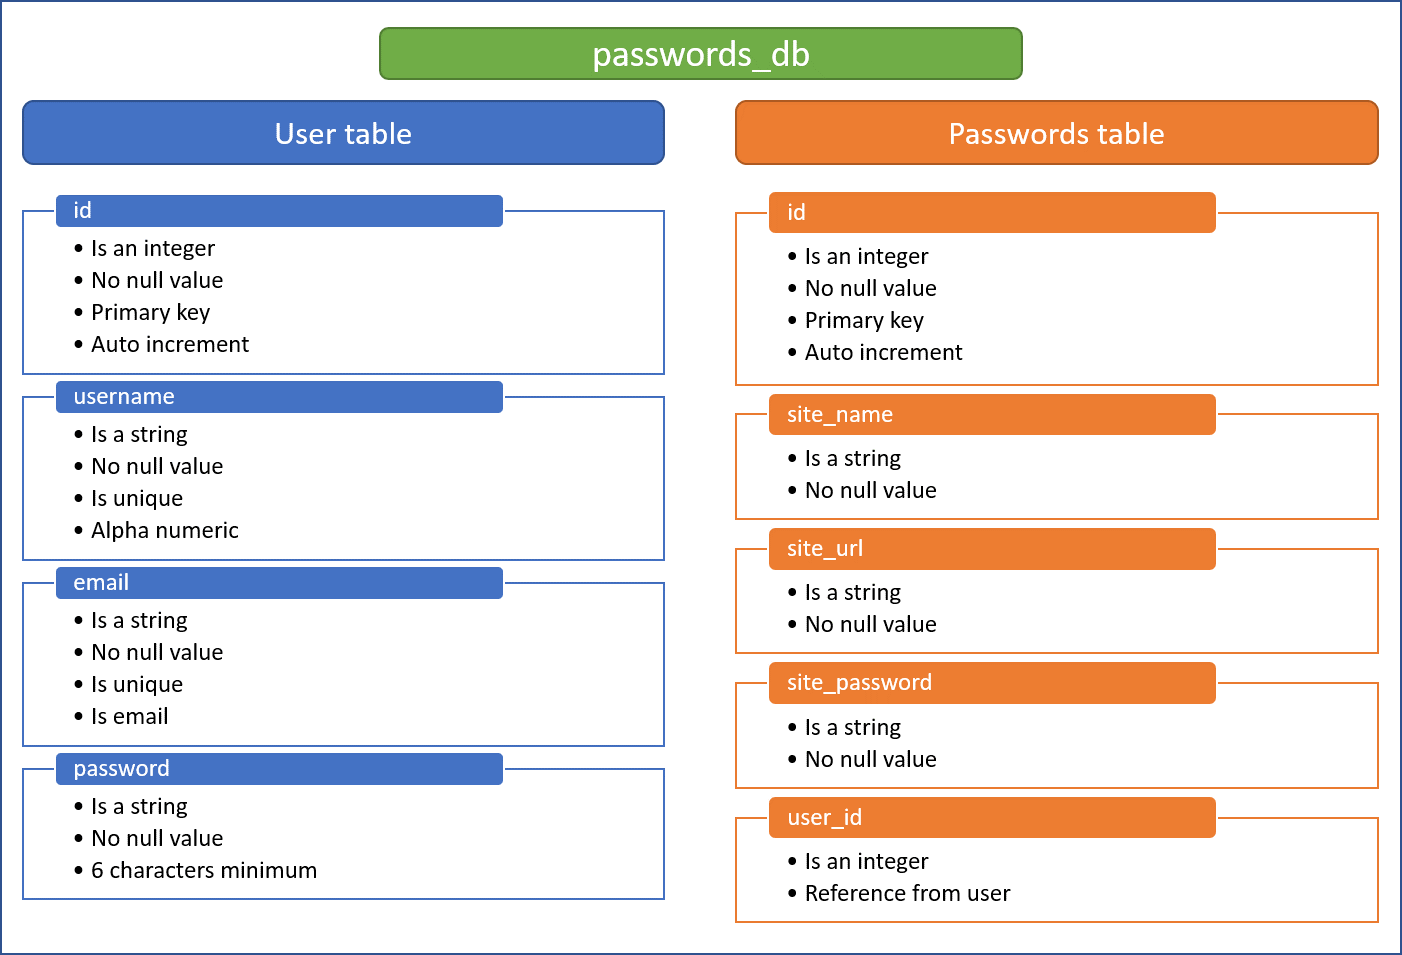
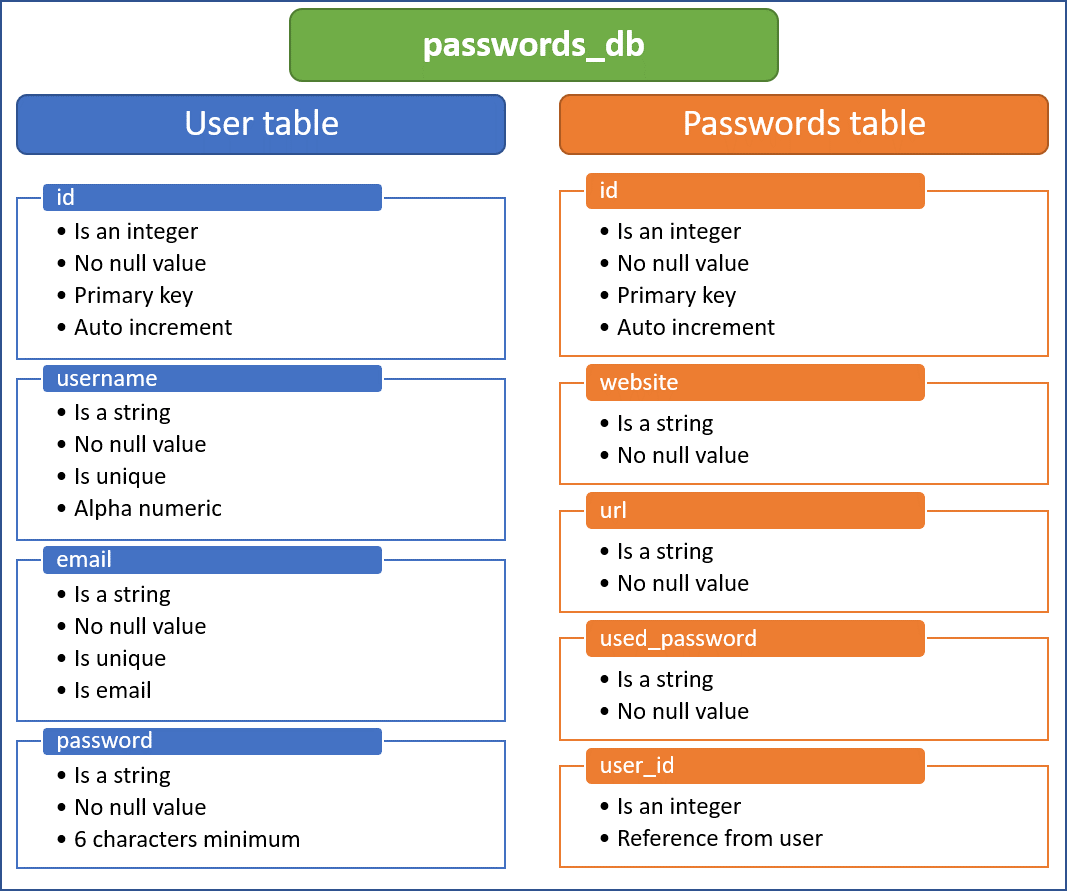
updated readme

diff --git a/README.md b/README.md
@@ -40,11 +40,11 @@ Creating a simple, secure and responsive application that allows a users to gene
 - [Models](#models)
 - [Associations](#associations)
 - [Future developments](#future-developments)
+- [Presentation link](#presentation-link)
 - [Repo link](#repo-link)
-- [Deployed link](#deployed-link)
+- [HEROKU Deployed link](#heroku-deployed-link)
 - [Wireframe](#wireframe)
 - [Screenshots - Schema](#screenshots---schema)
-- [Screenshots](#screenshots)
 
 ## User story
 ``` 
@@ -65,20 +65,16 @@ WHEN I enter registered username and password THEN I am taken to the user dashbo
 
 GIVEN I have an account in the password genie app
 WHEN log in THEN I am presented with a dashboard
-AND I have the option to create a new password item, edit an existing password and delete an existing password.
+AND I have the option to create a new item, view an exisitng item, edit an existing item and delete an existing item.
 
-GIVEN I have logged in to the password genie app
-WHEN I choose to create a new password item THEN I am presented with a form
-AND I need to enter a name, a username and auto-generate a password
-WHEN I submit the form THEN I am taken back to the dashboard and I can see my newly created password item
-
-GIVEN I have logged in to the password genie app
+GIVEN I have logged in to the password genie app,
+WHEN I choose to create a new item THEN I am presented with a form.
+AND I need to enter a website name, url of website, username and type a password or generate a password using a modal with different user requirement.
+WHEN I submit the form THEN I am taken back to the dashboard and I can see my newly created item.
 WHEN I choose to edit an existing item THEN I am presented with a pre-filled form with existing data
-AND I can edit the name, username, and generate a new password
-WHEN I submit the form THEN I am taken back to the dashboard and I can see my updated password item
-
-GIVEN I have logged in to the password genie app
-WHEN I choose to delete an existing item THEN the password item is removed from the dashboard
+AND I can edit the website name, url of website, username and type or generate a new password using a modal with different user requirement
+WHEN I submit the form THEN I am taken back to the dashboard and I can see my updated password item.
+WHEN I choose to delete an existing item THEN the password item is removed from the dashboard.
 ```
 ## Contributors
 1. [Diana Keosswanto](https://github.com/dianakoeswanto)
@@ -109,28 +105,30 @@ The strong teamwork between our group is what motivated everyone in the group th
 The application is based on one `passwords_db` database containing two tables namely `user` and `passwords`. See [schema](#screenshots---schema) here.
 
 ## Associations
-* `Passwords` belongs to `User`, and `User` has many `Password` models, as a user can have multiple password but a password can only belong to one user.
+* `Passwords` belongs to a `User`, and a `User` has many `Password` models, as a user can have multiple passwords but a password can only belong to one user.
 
 ## Future developments
-1. Add a button on the landing page "forget my password" which will send a temporary password recovery link to user's email.
-2. App will notify the user that password has not been changed for more than 6 months. Automatic notification will be sent to users registered email.
-3. Notification hadlebar will be created for notifcation like #2 and other notifications in the future.
-4. Allow user to search a password on the dashborad.
+  1. Add a button on the landing page "forgot my password" which will send a temporary password recovery link to user's email.
+  2. App will notify the user that password has not been changed for more than 6 months. 
+  3. Automatic notification will be sent to users registered email.
+  4. Notification handlebar will be created for notification like above points and so on.
+  5. Allow users to search a password on their dashboard.
+  6. Finding a more secure way to encrypting the database.
+  7. Add a reveal icon 👁 to display the password unhashed.
+
+## Presentation link
+[👋 Password-genie Presentation 👋](https://cloudstor.aarnet.edu.au/plus/s/kbKe2OGZ0js3jDp)
 
 ## Repo link
 [👋 Password-genie Repo 👋](https://github.com/marora7926/password-genie)
 
-## Deployed link
-[🎥 Password-genie Application 🎥](https://github.com/marora7926/password-genie)
+## HEROKU Deployed link
+[🎥 Password-genie Application 🎥](https://password-genie.herokuapp.com)
 
 ## Wireframe
 ![Screenshot-password-genie](./public/images/wireframe.png)
 
 ## Screenshots - Schema
 ![Screenshot-models-schema](./public/images/models_schema.png)
-
-## Screenshots
-![Screenshot-landing-page](./public/images/xyz.png)
-
 - - -
 © 2021 Bootcamp students. Confidential and Proprietary. All Rights Reserved
